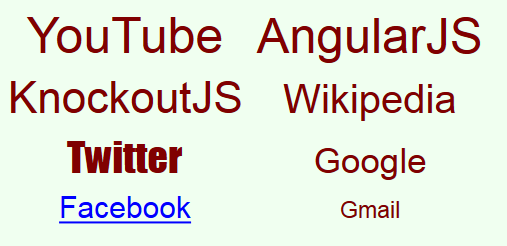
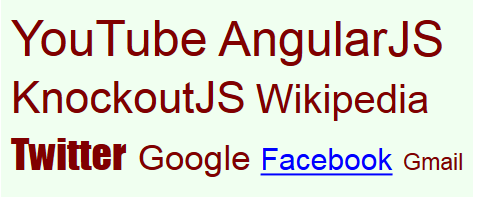
Modified display logic and updated images
Updated the code to display elements in optimized way width wise.

diff --git a/tagCloud.js b/tagCloud.js
@@ -1,5 +1,5 @@
 /*
-Copyright (c) 2016 Samrat K
+Copyright (c) 2016 SamratK
 
 Permission is hereby granted, free of charge, to any person obtaining a copy
 of this software and associated documentation files (the "Software"), to deal
@@ -133,28 +133,35 @@ domTagElements.sort(function(elem1,elem2){
 return elem1.getAttribute('font-size') > elem2.getAttribute('font-size')? -1:1;
 });
 
-var totalRows = 0;
-var verticalSpacing = 0;
-var horizontalSpacing = 10;
-
-//Re-arranging the elements in rows and columns.
+var prevWidth = 0;
+var maxX = 0,maxY=0;
+//Re-arranging the elements in rows and cloumns.
 for(var j=0;j<domTagElements.length;j++){
 element = domTagElements[j];
+var eleWidth = element.getBBox().width;
 
-if(x > elemsInRow * elemMaxWidth){
-  x = horizontalSpacing;
-  y= y + 10+ element.getBBox().height;
-  totalRows++;
+if(prevWidth + eleWidth + 10 > width-10){
+//Go to next line
+y = y + elemMaxHeight;
+x=10;
+}else{
+x = prevWidth + 10;
 }
 
-element.setAttribute('x',x  +  (elemMaxWidth - element.getBBox().width)/2);
+element.setAttribute('x',x);
 element.setAttribute('y',y);
-x = x+horizontalSpacing+elemMaxWidth;
+prevWidth = x + eleWidth;
+
+if(maxX < prevWidth){
+  maxX = prevWidth;
 }
+}
+maxY = y;
 
 //Optimizing the bounding box space.
-svgBg.setAttribute('width',(elemMaxWidth + 20)*elemsInRow);
+svgBg.setAttribute('width',maxX + 10);
 svgBg.setAttribute('height',y+ elemMaxHeight/2);
-svg.setAttribute('width',(elemMaxWidth + 20)*elemsInRow);
-svg.setAttribute('height',y+ elemMaxHeight/2);
+svg.setAttribute('width', maxX + 10);
+svg.setAttribute('height',maxY+ elemMaxHeight/2);
+
 }

diff --git a/tagCloudExample.html b/tagCloudExample.html
@@ -9,7 +9,7 @@
 <table>
   <tr>
     <td>
-<div style="display:inline-block;min-height:80vh;min-width:60vw;background-color:cyan;">
+<div style="display:inline-block;min-height:80vh;min-width:60vw;background-color:#FFE4E1;">
   <br/>
   <h2 align="center"><span data-bind="text : content"></span></h2>
   <br/>
